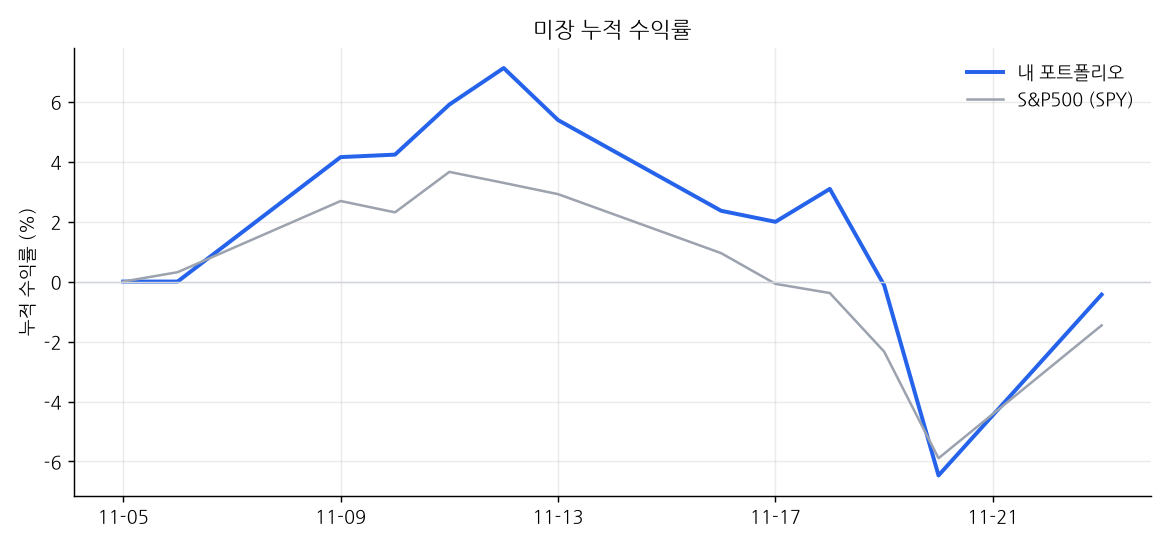
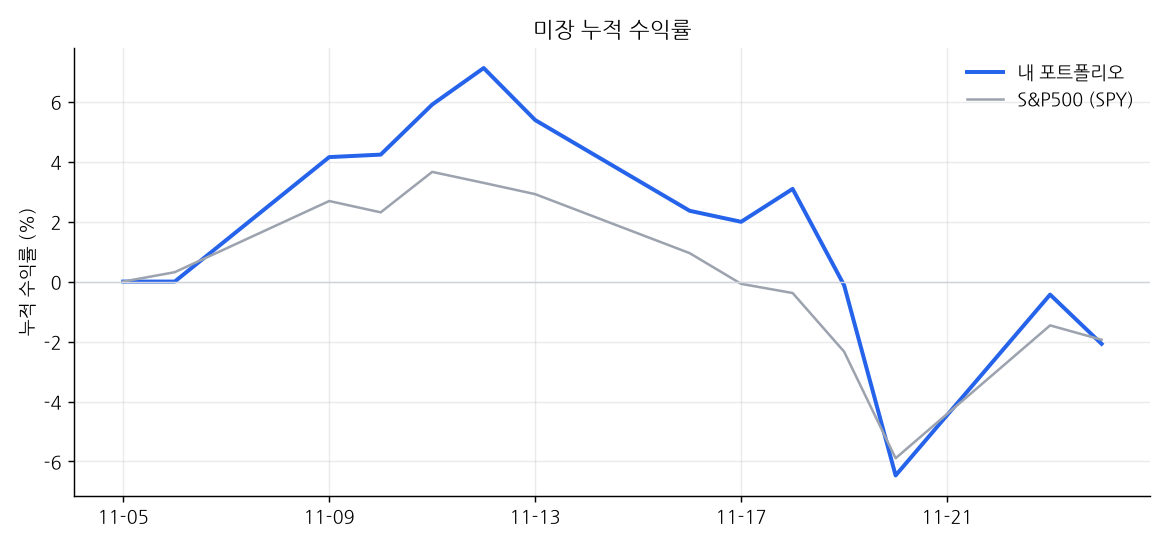
dashboard 2026-11-25 07:30

diff --git a/README.md b/README.md
@@ -1,10 +1,10 @@
 # 📈 내 자동매매 포트폴리오
 
-_마지막 갱신: 2026-11-24 16:00 (KST) · 라즈베리파이 자동 업데이트_
+_마지막 갱신: 2026-11-25 07:30 (KST) · 라즈베리파이 자동 업데이트_
 
 | 트랙 | 시작일 | 누적 수익률 | 비교 지수 | 초과 | 최근 1개월 | 국면 |
 |---|---|---|---|---|---|---|
-| 미장 | 2026-11-05 | **-0.43%** | -1.46% | +1.03% | - | BEAR |
+| 미장 | 2026-11-05 | **-2.08%** | -1.94% | -0.14% | - | BULL |
 | 국장 | 2026-11-06 | **-0.56%** | -0.44% | -0.13% | - | BEAR |
 
 ## 미장
@@ -13,17 +13,17 @@ _마지막 갱신: 2026-11-24 16:00 (KST) · 라즈베리파이 자동 업데이
 
 | 종목 | 비중 |
 |---|---|
-| TSLA | 10.9% |
-| AAPL | 10.2% |
-| AVGO | 10.1% |
-| AMD | 10.1% |
+| TSLA | 11.1% |
+| AAPL | 10.5% |
+| LLY | 10.1% |
+| AVGO | 9.9% |
 | AMZN | 9.8% |
 | GOOGL | 9.7% |
 | META | 9.7% |
-| LLY | 9.6% |
-| MSFT | 9.0% |
-| NVDA | 8.5% |
-| 현금 | 2.4% |
+| AMD | 9.3% |
+| MSFT | 9.2% |
+| NVDA | 8.1% |
+| 현금 | 2.5% |
 
 ![미장 비중](charts/us_weights.png)
 
